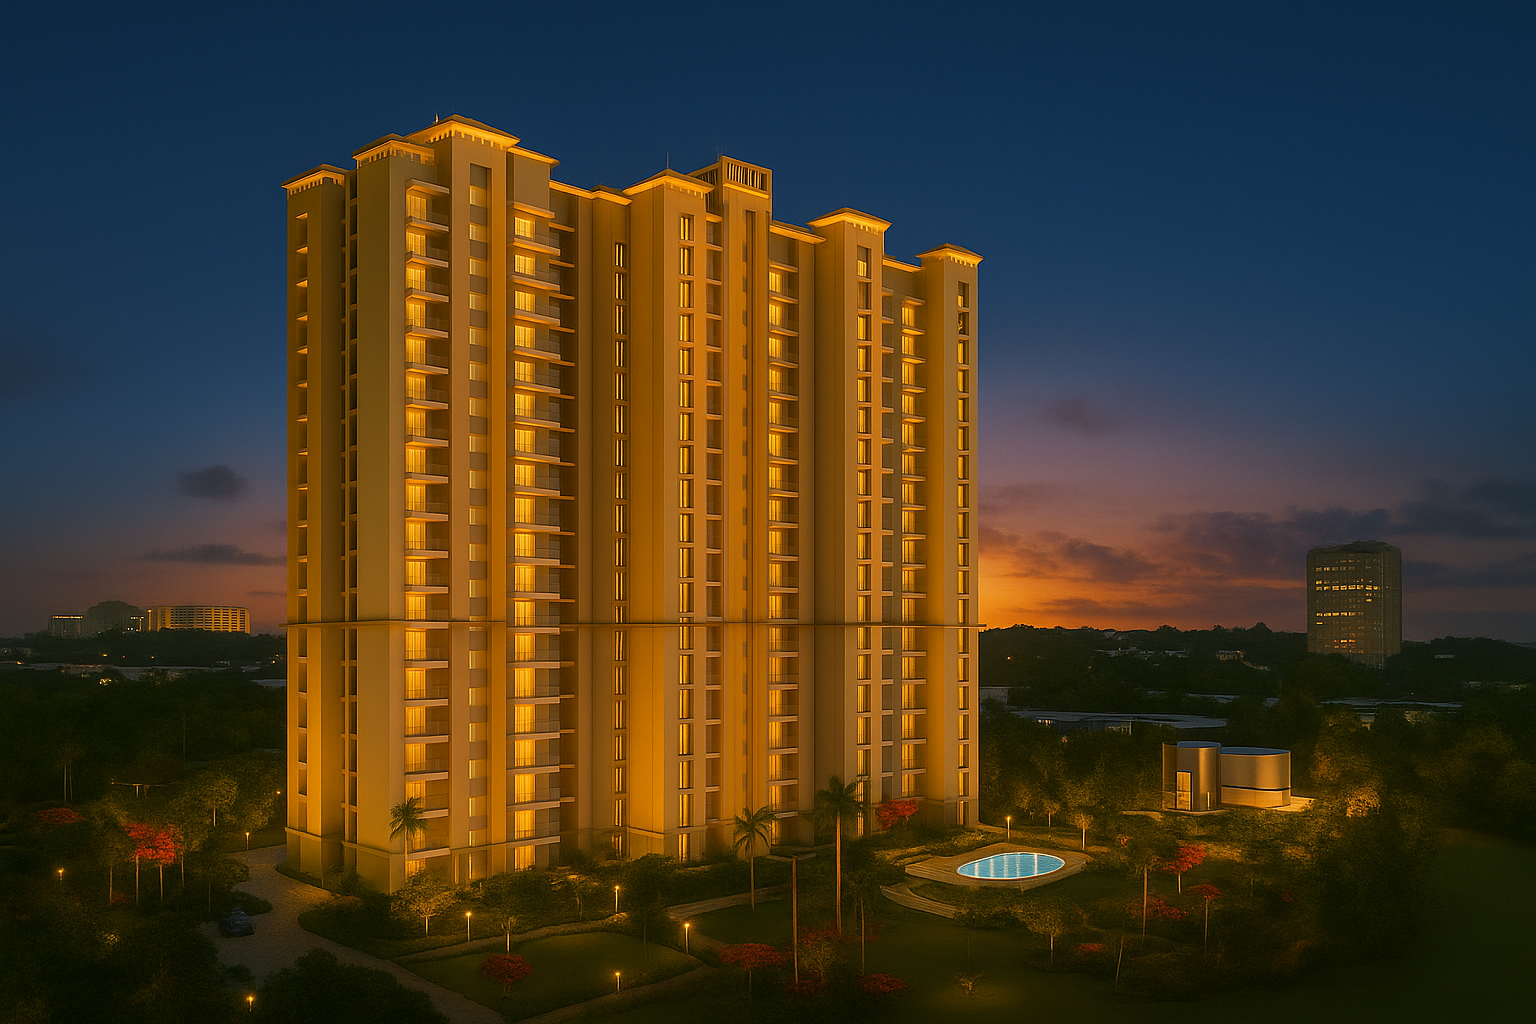
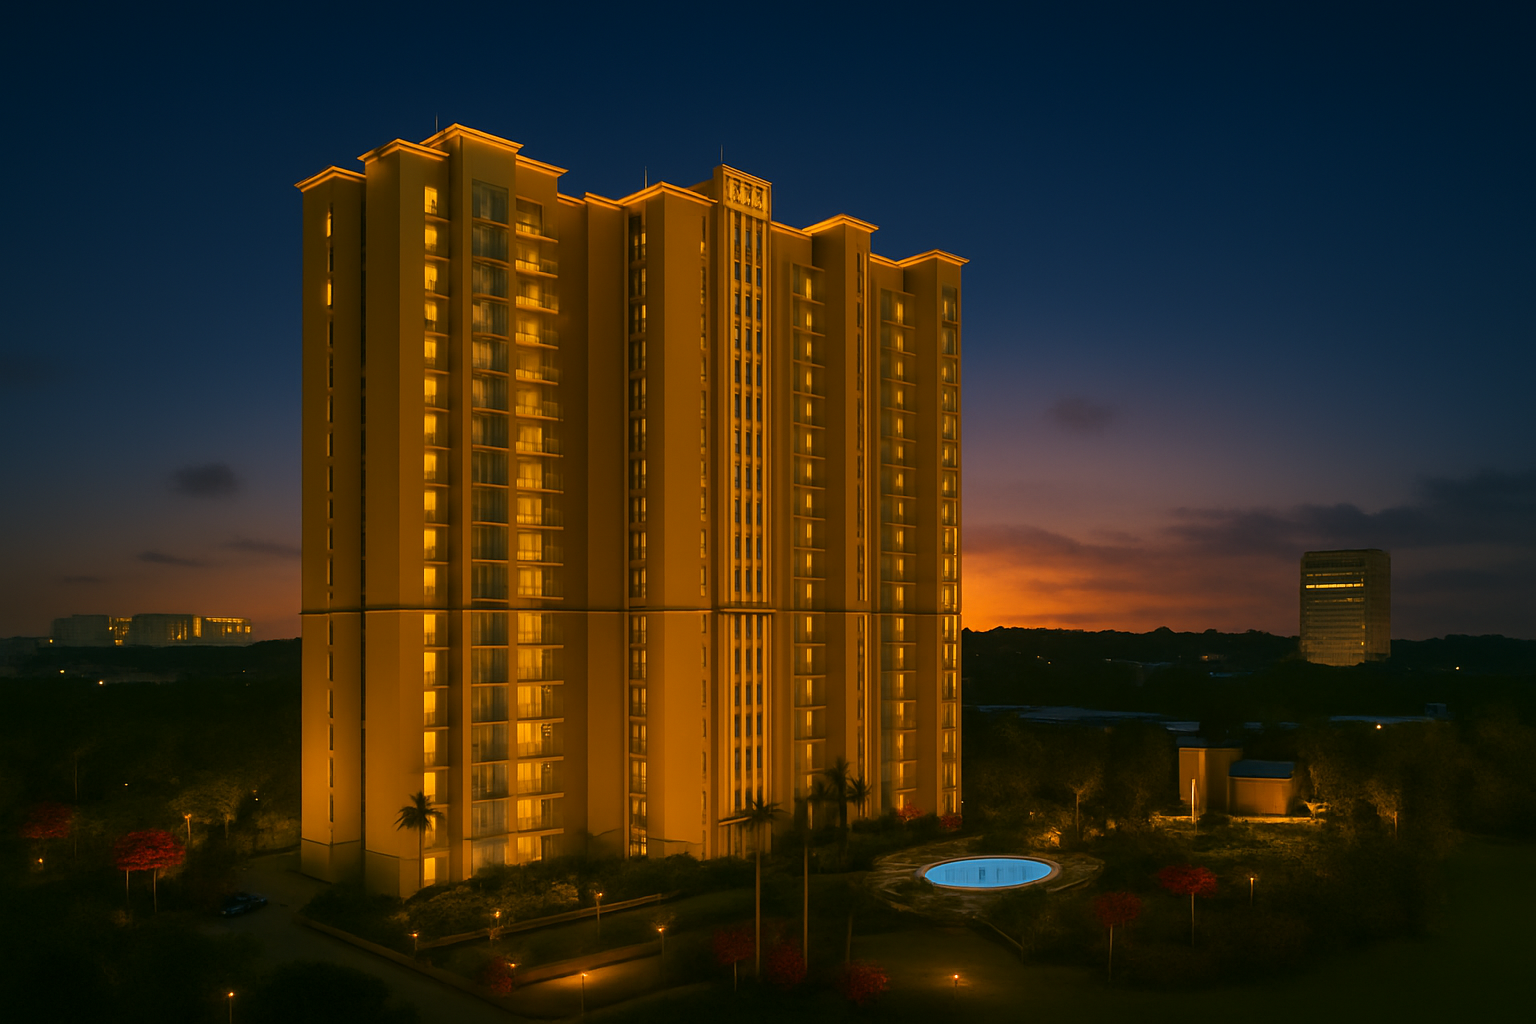
the image is updated for the hero section

diff --git a/src/components/NavBar.jsx b/src/components/NavBar.jsx
@@ -6,6 +6,7 @@ const HEADER_OFFSET = 80;
 const NavBar = () => {
   const [isOpen, setIsOpen] = useState(false);
   const [activeSection, setActiveSection] = useState("home");
+  const [isScrolled, setIsScrolled] = useState(false);
 
   const navLinks = [
     { name: "Home", path: "home" },
@@ -45,19 +46,27 @@ const NavBar = () => {
         }
       }
     }
-
     setActiveSection(current);
   }, [navLinks]);
 
   useEffect(() => {
-    window.addEventListener("scroll", updateActive);
-    updateActive();
+    const onScroll = () => {
+      setIsScrolled(window.scrollY > 50);
+      updateActive();
+    };
 
-    return () => window.removeEventListener("scroll", updateActive);
+    window.addEventListener("scroll", onScroll);
+    updateActive();
+    return () => window.removeEventListener("scroll", onScroll);
   }, [updateActive]);
 
   return (
-    <nav className="fixed top-0 left-0 right-0 z-50 bg-white/90 backdrop-blur-sm shadow-sm">
+    <nav
+      className={`
+        fixed top-0 left-0 right-0 z-50 transition-all duration-500 
+        ${isScrolled ? "bg-white shadow-md" : "bg-transparent"}
+      `}
+    >
       <div className="max-w-7xl mx-auto px-6">
         <div className="flex justify-between items-center h-20">
 
@@ -66,33 +75,53 @@ const NavBar = () => {
             className="flex items-center space-x-3 cursor-pointer"
             onClick={() => handleScroll("home")}
           >
-            <div className="w-10 h-10 bg-[#0A2A4A] rounded-lg flex items-center justify-center">
+            <div
+              className={`w-10 h-10 rounded-lg flex items-center justify-center transition-all duration-300 
+                ${isScrolled ? "bg-[#0A2A4A]" : "bg-white/20"}
+              `}
+            >
               <Home className="w-5 h-5 text-white" />
             </div>
-            <span className="text-3xl font-bold text-[#0A2A4A]">
+
+            <span
+              className={`text-3xl font-bold transition-all duration-300 
+                ${isScrolled ? "text-[#0A2A4A]" : "text-white"}
+              `}
+            >
               Jasmine Grove
             </span>
           </div>
 
-          {/* Desktop Navigation */}
+          {/* Desktop Links */}
           <div className="hidden md:flex items-center space-x-10">
             {navLinks.map((link) => (
               <button
                 key={link.path}
                 onClick={() => handleScroll(link.path)}
-                className={`text-lg font-medium relative group ${
-                  activeSection === link.path
-                    ? "text-[#0A2A4A]"
-                    : "text-gray-600"
-                }`}
+                className={`text-lg font-medium relative group transition-all duration-300
+                  ${
+                    isScrolled
+                      ? activeSection === link.path
+                        ? "text-[#0A2A4A]"
+                        : "text-gray-600"
+                      : activeSection === link.path
+                      ? "text-white"
+                      : "text-gray-200"
+                  }
+                `}
               >
                 {link.name}
+
+                {/* Underline */}
                 <span
-                  className={`absolute left-0 bottom-0 h-[2px] bg-[#0A2A4A] transition-all duration-300 ${
-                    activeSection === link.path
-                      ? "w-full"
-                      : "w-0 group-hover:w-full"
-                  }`}
+                  className={`absolute left-0 bottom-0 h-[2px] transition-all duration-300
+                    ${isScrolled ? "bg-[#0A2A4A]" : "bg-white"}
+                    ${
+                      activeSection === link.path
+                        ? "w-full"
+                        : "w-0 group-hover:w-full"
+                    }
+                  `}
                 />
               </button>
             ))}
@@ -100,15 +129,24 @@ const NavBar = () => {
             {/* Contact Button */}
             <button
               onClick={() => handleScroll("contact")}
-              className="px-6 py-3 rounded-full bg-[#0A2A4A] text-white text-lg font-semibold shadow-md hover:bg-[#123961] transition"
+              className={`
+                px-6 py-3 rounded-full text-lg font-semibold shadow-md transition
+                ${
+                  isScrolled
+                    ? "bg-[#0A2A4A] text-white hover:bg-[#123961]"
+                    : "bg-white/20 text-white border border-white hover:bg-white/30"
+                }
+              `}
             >
               Contact Us
             </button>
           </div>
 
-          {/* Mobile Menu Icon */}
+          {/* Mobile Menu Toggle */}
           <button
-            className="md:hidden p-2 text-[#0A2A4A]"
+            className={`md:hidden p-2 transition-all duration-300 ${
+              isScrolled ? "text-[#0A2A4A]" : "text-white"
+            }`}
             onClick={toggleMenu}
           >
             {isOpen ? <X className="w-7 h-7" /> : <Menu className="w-7 h-7" />}
@@ -118,9 +156,9 @@ const NavBar = () => {
 
       {/* Mobile Menu */}
       <div
-        className={`md:hidden bg-white shadow-xl transition-all ${
-          isOpen ? "max-h-[400px] py-4" : "max-h-0 overflow-hidden"
-        }`}
+        className={`md:hidden transition-all duration-500 overflow-hidden
+          ${isOpen ? "max-h-[400px] py-4 bg-white shadow-xl" : "max-h-0"}
+        `}
       >
         <div className="flex flex-col items-center space-y-4">
           {navLinks.map((link) => (

diff --git a/src/components/Hero.jsx b/src/components/Hero.jsx
@@ -3,8 +3,7 @@ import { Link as ScrollLink } from "react-scroll";
 import { ArrowRight, Calendar, ChevronDown } from "lucide-react";
 import { useIntersectionObserver } from "../hooks/hooks";
 
-// IMPORT THE NEW ENHANCED WIDE HERO IMAGE
-import heroImage from "../assets/hero/final-hero.png";
+import heroImage from "../assets/hero/final-hero.png"; // <-- USE NEW WIDE IMAGE
 
 const Hero = () => {
   const [ref, isVisible] = useIntersectionObserver();
@@ -12,26 +11,31 @@ const Hero = () => {
   return (
     <section
       id="home"
-      className="relative h-screen w-full flex items-center justify-center text-white overflow-hidden"
+      className="relative h-screen w-full flex items-center justify-center text-white overflow-hidden bg-black"
     >
-      {/* Full Width + Full Height Background */}
-      <div
-        className="absolute inset-0 bg-no-repeat bg-cover"
+      {/* FULL WIDTH CINEMATIC IMAGE */}
+      <img
+        src={heroImage}
+        alt="Jasmine Grove"
+        className="
+          absolute inset-0 w-full h-full
+          object-cover
+          transition-all duration-700
+        "
         style={{
-          backgroundImage: `url(${heroImage})`,
-          backgroundPosition: "center center",   // perfect centering
+          objectPosition: "center center",
         }}
-      ></div>
+      />
 
-      {/* Soft Overlay for readability */}
-      <div className="absolute inset-0 bg-black/40"></div>
+      {/* Premium dark overlay */}
+      <div className="absolute inset-0 bg-gradient-to-b from-black/40 via-black/10 to-black/70"></div>
 
-      {/* Hero Content */}
+      {/* Content */}
       <div
         ref={ref}
-        className={`relative z-10 text-center px-6 max-w-4xl transition-all duration-1000 
-          ${isVisible ? "opacity-100 translate-y-0" : "opacity-0 translate-y-8"}
-        `}
+        className={`relative z-10 text-center px-6 max-w-4xl transition-all duration-1000 ${
+          isVisible ? "opacity-100 translate-y-0" : "opacity-0 translate-y-8"
+        }`}
       >
         <h1 className="text-5xl sm:text-7xl font-extrabold mb-6 drop-shadow-xl">
           Find Your Dream Home
@@ -41,16 +45,15 @@ const Hero = () => {
           Explore our exclusive collection of luxury residences in the heart of the city.
         </p>
 
-        {/* CTA Buttons */}
         <div className="flex flex-col sm:flex-row justify-center items-center gap-6">
           <ScrollLink
             to="amenities"
             smooth={true}
             duration={700}
             offset={-60}
-            className="group inline-flex items-center justify-center gap-3 px-8 py-4 
-            text-lg font-semibold rounded-full bg-white text-gray-900 hover:bg-gray-200 
-            shadow-lg hover:scale-105 transition cursor-pointer"
+            className="group inline-flex items-center justify-center gap-3 px-8 py-4 text-lg 
+            font-semibold rounded-full bg-white text-gray-900 hover:bg-gray-200 shadow-lg 
+            hover:scale-105 transition cursor-pointer"
           >
             View Listings
             <ArrowRight className="w-5 h-5 group-hover:translate-x-1 transition" />
@@ -61,9 +64,9 @@ const Hero = () => {
             smooth={true}
             duration={700}
             offset={-60}
-            className="group inline-flex items-center justify-center gap-3 px-8 py-4 
-            text-lg font-semibold rounded-full border-2 border-white text-white 
-            hover:bg-white hover:text-gray-900 hover:scale-105 transition cursor-pointer"
+            className="group inline-flex items-center justify-center gap-3 px-8 py-4 text-lg 
+            font-semibold rounded-full border-2 border-white text-white hover:bg-white 
+            hover:text-gray-900 hover:scale-105 transition cursor-pointer"
           >
             Contact Us
             <Calendar className="w-5 h-5" />
@@ -71,7 +74,6 @@ const Hero = () => {
         </div>
       </div>
 
-      {/* Scroll Arrow */}
       <div className="absolute bottom-10 left-1/2 -translate-x-1/2 z-10 animate-bounce">
         <ChevronDown className="w-10 h-10 text-white" />
       </div>

diff --git a/src/pages/AboutPage.jsx b/src/pages/AboutPage.jsx
@@ -6,7 +6,7 @@ import PropertyShowcase from '../components/PropertyShowcase';
 const AboutPage = () => {
   return (
     <div className="min-h-screen pt-0">
-      <section className="py-20 bg-gradient-to-br from-color-1/10 via-white to-color-1/10">
+      <section className="py-10 bg-gradient-to-br from-color-1/10 via-white to-color-1/10">
         <div className="max-w-7xl mx-auto px-4 sm:px-6 lg:px-8">
           <div className="text-center mb-16">
             <h1 className="text-6xl font-bold bg-gradient-to-r from-color-4 to-color-3 bg-clip-text text-transparent mb-6">

diff --git a/src/pages/ContactPage.jsx b/src/pages/ContactPage.jsx
@@ -62,7 +62,7 @@ const ContactPage = () => {
 
   return (
     <div className="min-h-screen pt-0" id="contact">
-      <section className="py-20 bg-gradient-to-br from-color-1/10 via-white to-color-1/10">
+      <section className="py-5 bg-gradient-to-br from-color-1/10 via-white to-color-1/10">
         <div className="max-w-7xl mx-auto px-4 sm:px-6 lg:px-8">
           <div className="text-center mb-16">
             <h1 className="text-5xl sm:text-6xl font-bold bg-gradient-to-r from-color-4 to-color-3 bg-clip-text text-transparent mb-6">
